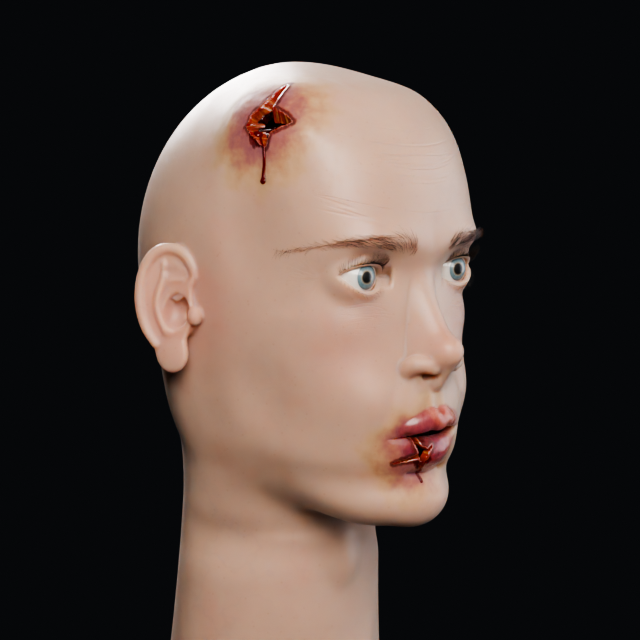
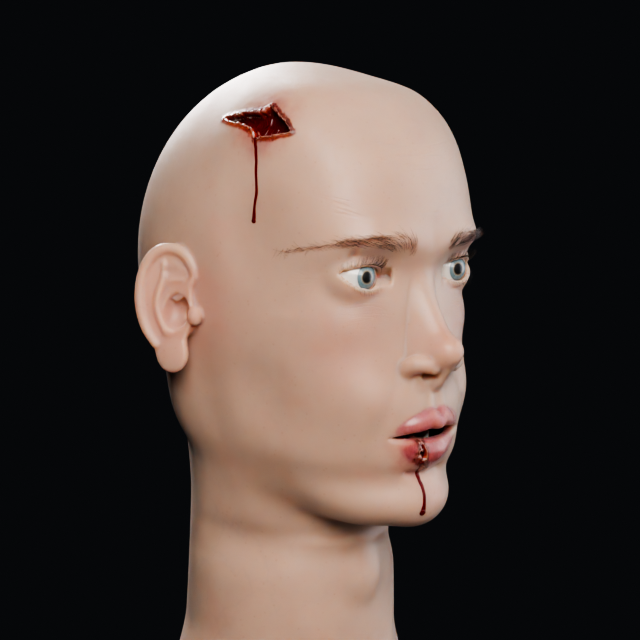
WIP: body skin renders, head preset re-renders
Claude-Session: https://claude.ai/code/session_0186CV4JXPBpxwWrzN3Er8XW

diff --git a/blender/gore_head/gore.py b/blender/gore_head/gore.py
@@ -1014,7 +1014,9 @@ def _build_slash():
     pool = c.pool(q, s * 0.0035 * (0.5 + bleed), bleed * opened, drop=open_hw * 0.6)
     lip_blood = t.smooth(0.004, 0.0, d_out) * lens.gt(0.02) * opened * bleed \
         * (0.35 + 0.65 * low_lip) * t.smooth(-0.3, 0.3, t.noise(c.np * 350.0, detail=2.0))
-    blood = (pool * is_skin * (0.35 + 0.65 * low_lip)).max(lip_blood).max(exposed * 0.9).max(score * 0.8) \
+    # bone reached by the cut lies in a pool of blood (periosteum, not white bone)
+    bone_bed = reach * is_bone * t.smooth(open_hw * 1.3, open_hw * 0.6, av) * lens.gt(0.02)
+    blood = (pool * is_skin * (0.35 + 0.65 * low_lip)).max(lip_blood).max(exposed * 0.9).max(bone_bed) \
         .max(scratch * 0.3 * bleed)
     _finish_kind(t, cut, disp=disp, wall=wall, center=center, wound=wound, edge=scratch, blood=blood)
     return t
@@ -1042,7 +1044,7 @@ def _build_blunt():
     nl = t.noise(c.np * 120.0, detail=3.0)
     hours = t.inp("Age") * t.inp("Age") * 48.0
     # swelling: some at once, most within the first hours (peak ~24 h)
-    f_sw = 0.2 + 0.8 * t.smooth(0.03, 16.0, hours)
+    f_sw = 0.25 + 0.75 * t.smooth(0.02, 6.0, hours)
     rsw = s * 0.017
     swell = t.inp("Swelling") * (0.0035 + 0.0055 * s.min(1.3)) * f_sw \
         * t.math('EXPONENT', -(c.rho / rsw) ** 2.0) * (1.0 + nl * 0.25) * soft

diff --git a/blender/gore_head/materials.py b/blender/gore_head/materials.py
@@ -1098,7 +1098,8 @@ def _bone_material(g):
     col = t.mix(main * 0.9, col, (0.055, 0.009, 0.007))
     h = h - main * 3.0 - hair * 1.2
     # wounds and fractures are bloody, but the bone must still read: patchy film
-    blood = (t.attr("gore_blood") * 0.55).max(main * 0.7)
+    gb = t.attr("gore_blood")
+    blood = (gb * 0.55).max(main * 0.7).max(gb.smooth(0.8, 1.0) * 0.95)
     bl = _blood_layer(t, g, col, b["Roughness"], blood, p)
     h = t.mix(bl["Height Mask"], h, bl["Height"] * 2.0 - main * 2.0)
     bsdf = t.principled({
